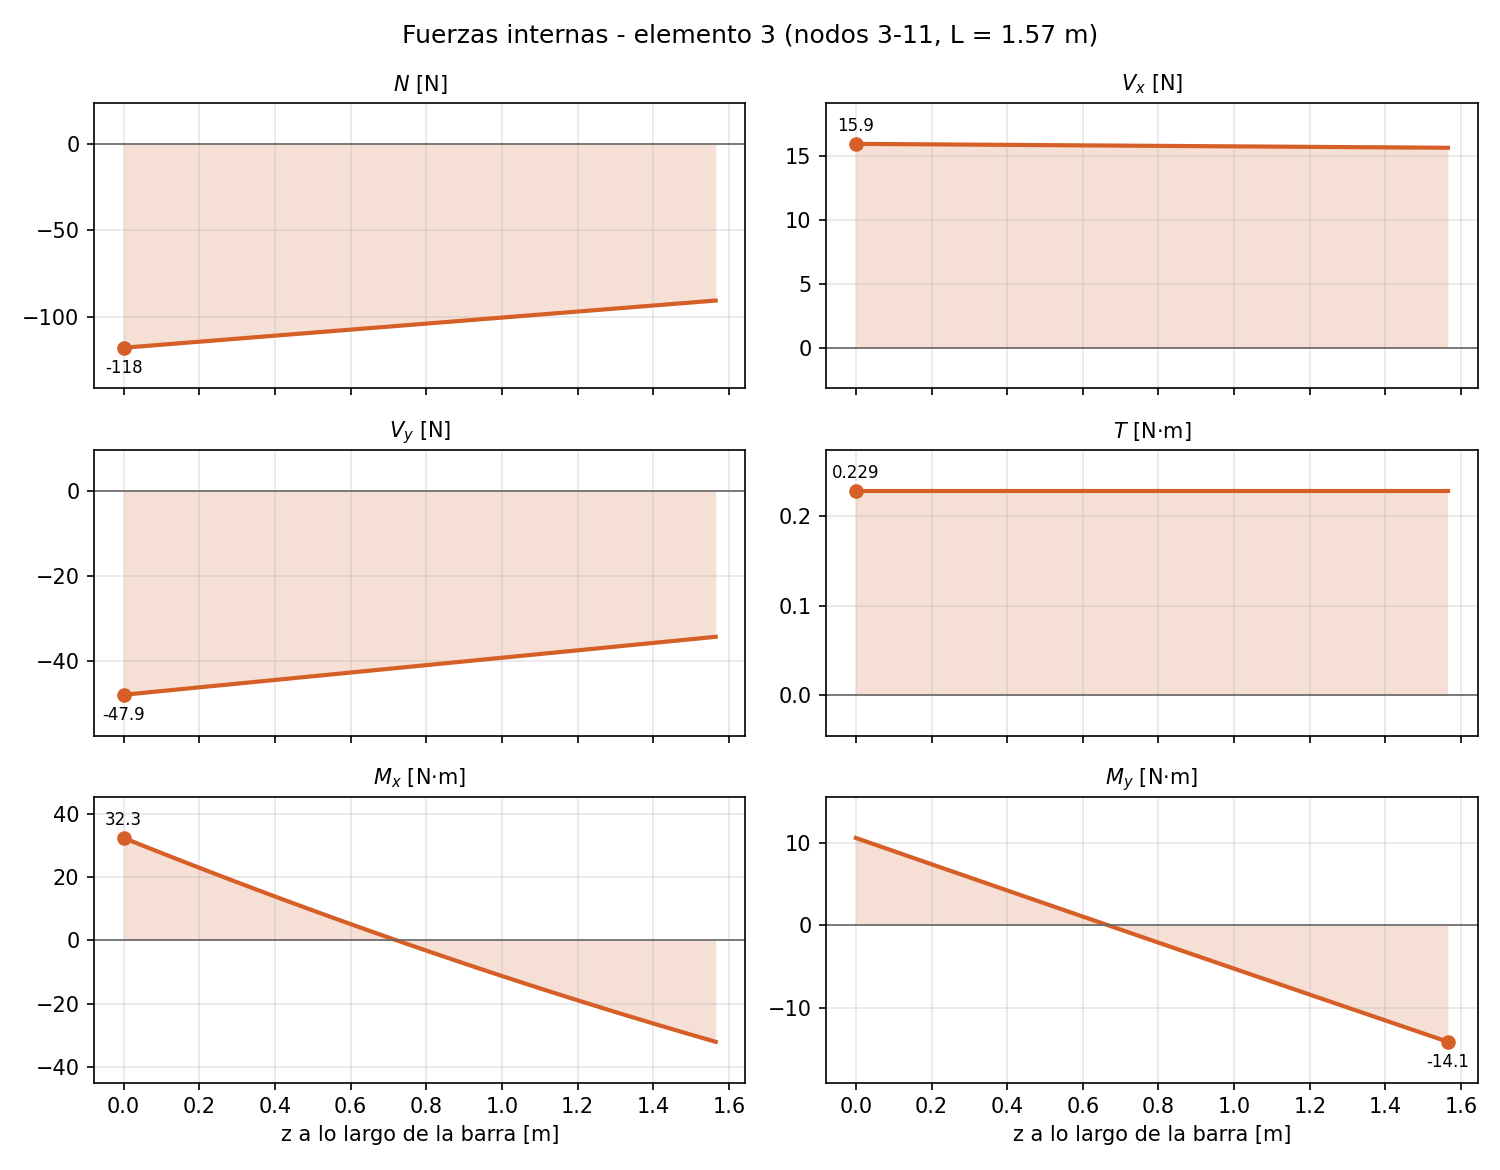
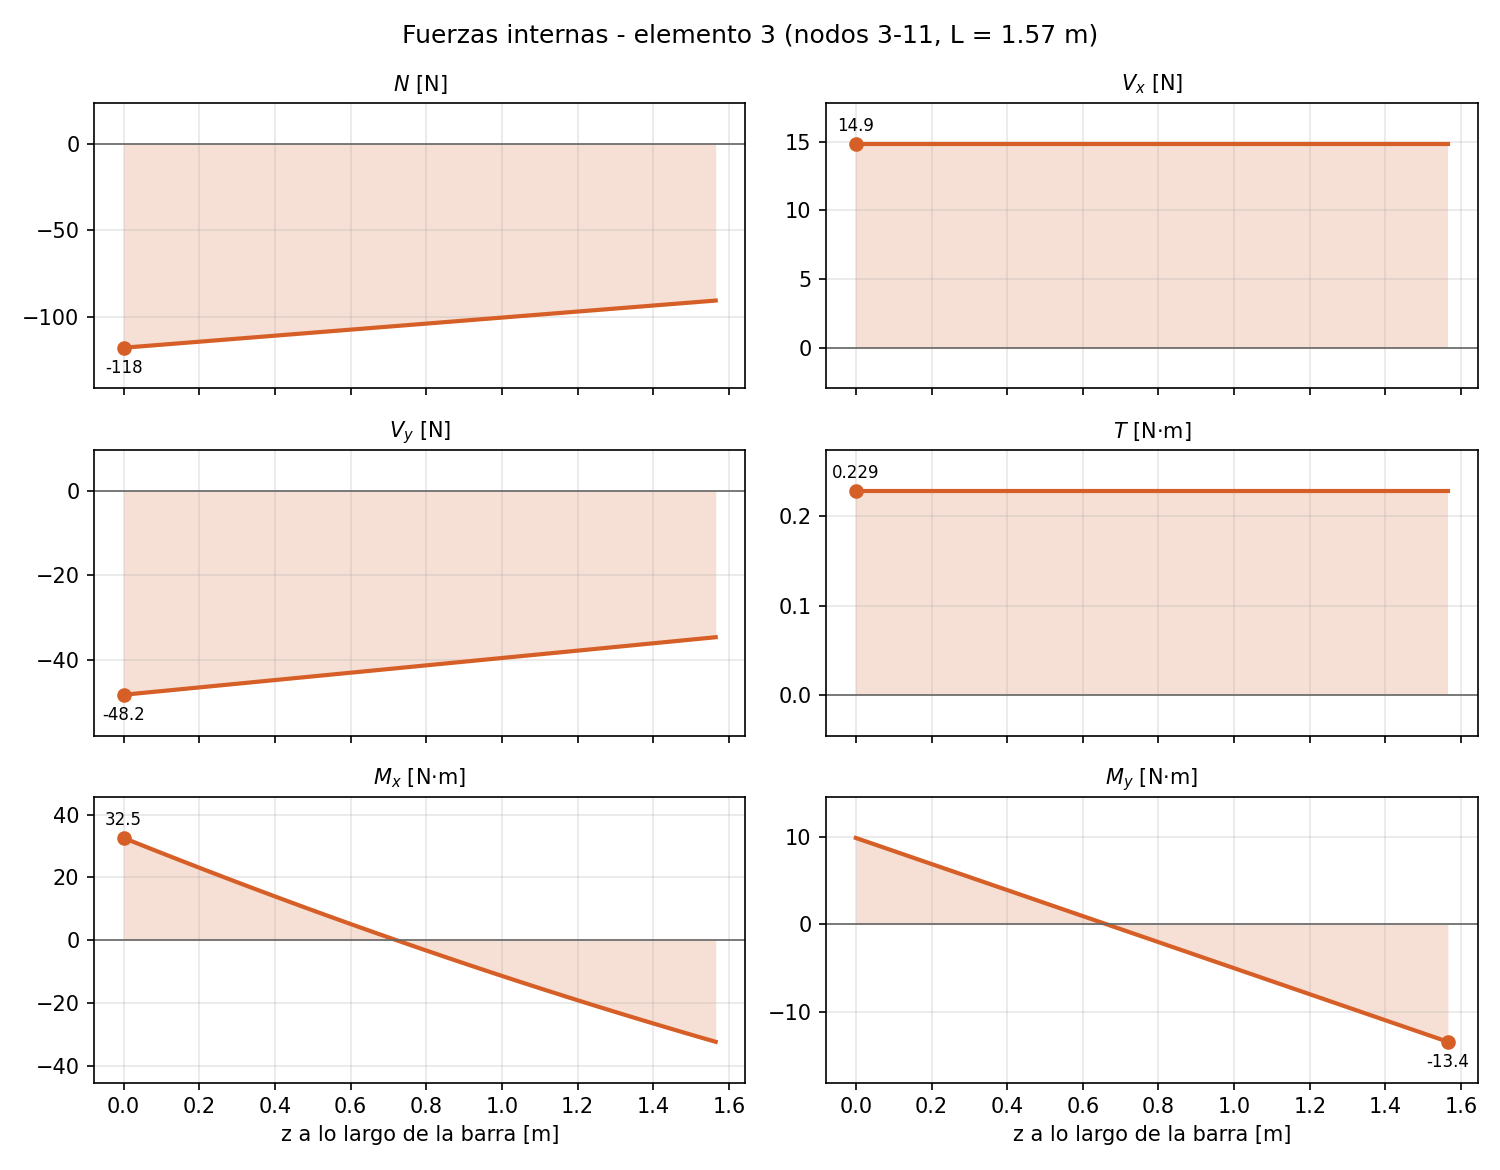
T2 P2: orientar ejes locales con vec_ref = Z para que el peso quede en un plano
- vec_ref = Z global (Y en barras verticales): x_L horizontal, el peso propio
  solo carga V_y, M_x y N; V_x queda constante en las barras inclinadas
- Barras simetricas dan tensiones identicas; sigma_VM max = 29.6 MPa (FS = 10.2)
- Actualiza tablas, barrido de atiesadores y figuras

diff --git a/T2/P2.tex b/T2/P2.tex
@@ -140,7 +140,7 @@ traseras del techo (nodos 4 y 7) solo se apoyaban en los tramos de 1 m que
 van a la punta de las columnas inclinadas. El larguero trasero de 4 m
 quedaba colgando de dos voladizos y su centro bajaba \textbf{15.08 mm}, lo
 que \emph{no cumple} $\delta_{max}=10$ mm. Las tensiones sí cumplían
-($\sigma_{VM}=35.8$ MPa).
+($\sigma_{VM}=35.6$ MPa).
 
 Para corregirlo sin cambiar la idea del diseño ni tapar la vista, se agregó
 un atiesador en cada cara lateral. Este apoya la esquina trasera del techo
@@ -153,12 +153,12 @@ que el atiesador se une con la columna:
 \hline
 Diseño & Largo atiesador [m] & $\delta_{max}$ [mm] & $\sigma_{VM,max}$ [MPa] & FS\\
 \hline
-Sin atiesadores & -- & 15.08 & 35.8 & 8.4\\
-$z_{at}=1.6$ m & 0.89 & 8.67 & 33.0 & 9.1\\
-$z_{at}=1.5$ m & 0.90 & 7.98 & 31.5 & 9.5\\
-$\mathbf{z_{at}=1.4}$ \textbf{m} & \textbf{0.92} & \textbf{7.36} & \textbf{29.8} & \textbf{10.1}\\
-$z_{at}=1.2$ m & 1.00 & 6.33 & 26.7 & 11.3\\
-$z_{at}=1.0$ m & 1.12 & 5.59 & 24.9 & 12.0\\
+Sin atiesadores & -- & 15.08 & 35.6 & 8.4\\
+$z_{at}=1.6$ m & 0.89 & 8.67 & 32.7 & 9.2\\
+$z_{at}=1.5$ m & 0.90 & 7.98 & 31.3 & 9.6\\
+$\mathbf{z_{at}=1.4}$ \textbf{m} & \textbf{0.92} & \textbf{7.36} & \textbf{29.6} & \textbf{10.2}\\
+$z_{at}=1.2$ m & 1.00 & 6.33 & 26.4 & 11.4\\
+$z_{at}=1.0$ m & 1.12 & 5.59 & 24.6 & 12.2\\
 \hline
 \end{tabular}
 \end{center}
@@ -190,23 +190,24 @@ $\sqrt{M_x^2+M_y^2}$. Máximos a lo largo de cada barra:
 \hline
 Barra & Nodos & Tipo & $\sigma_{VM}$ [MPa] & Barra & Nodos & Tipo & $\sigma_{VM}$ [MPa]\\
 \hline
-0 & 0--10 & col. inclinada & 29.27 & 7  & 6--9  & techo      & 6.44\\
+0 & 0--10 & col. inclinada & \textbf{29.55} & 7  & 6--9  & techo      & 6.50\\
 1 & 1--5  & col. vertical  & 18.61 & 8  & 9--7  & techo      & 6.33\\
 2 & 2--6  & col. vertical  & 18.61 & 9  & 7--4  & larguero   & 13.29\\
-3 & 3--11 & col. inclinada & \textbf{29.81} & 10 & 10--8 & col. inclinada & 15.75\\
-4 & 4--8  & techo          & 6.33  & 11 & 11--9 & col. inclinada & 16.08\\
-5 & 8--5  & techo          & 6.56  & 12 & 10--4 & atiesador  & 12.75\\
-6 & 5--6  & larguero       & 13.75 & 13 & 11--7 & atiesador  & 12.59\\
+3 & 3--11 & col. inclinada & \textbf{29.55} & 10 & 10--8 & col. inclinada & 15.92\\
+4 & 4--8  & techo          & 6.33  & 11 & 11--9 & col. inclinada & 15.92\\
+5 & 8--5  & techo          & 6.50  & 12 & 10--4 & atiesador  & 12.67\\
+6 & 5--6  & larguero       & 13.75 & 13 & 11--7 & atiesador  & 12.67\\
 \hline
 \end{tabular}
 \end{center}
 La barra más solicitada es el tramo inferior de la columna inclinada, en su
 empotramiento:
-$$\sigma_{VM,max}=29.8\ \text{MPa}<S_y=300\ \text{MPa}\qquad\checkmark,
-\qquad FS=\frac{S_y}{\sigma_{VM,max}}=10.1$$
-La pequeña diferencia entre las barras 0 y 3 (29.27 y 29.81 MPa) se debe al
-criterio conservador $|M_x|+|M_y|$, que depende de cómo quedan orientados
-los ejes locales de cada barra. La tensión axial es despreciable (máx.
+$$\sigma_{VM,max}=29.6\ \text{MPa}<S_y=300\ \text{MPa}\qquad\checkmark,
+\qquad FS=\frac{S_y}{\sigma_{VM,max}}=10.2$$
+Las barras simétricas respecto del plano $y=2$ m dan las mismas tensiones.
+Los ejes locales se orientaron con \texttt{vec\_ref} $=\hat Z$ (o $\hat Y$ en
+las barras verticales), de modo que $x_L$ es horizontal y el peso propio
+solo carga el plano local $y_L$--$z_L$ ($V_y$, $M_x$ y $N$). La tensión axial es despreciable (máx.
 0.46 MPa): la estructura trabaja en flexión.
 
 \textbf{Pandeo.} Como verificación adicional, la columna más comprimida
@@ -219,8 +220,8 @@ así que el pandeo no controla el diseño.
 \includegraphics[width=\linewidth]{T2/figuras_P2/tensiones_3d.png}
 \captionof{figure}{Tensiones sobre la estructura: normal por axial, normal
 máxima, corte por torsión y von Mises. El color se asigna con el promedio
-de cada segmento, por eso el máximo del gráfico (29.2 MPa) es algo menor que
-el valor puntual en el empotramiento (29.8 MPa).}
+de cada segmento, por eso el máximo del gráfico (28.9 MPa) es algo menor que
+el valor puntual en el empotramiento (29.6 MPa).}
 \label{fig:t2-p2-tensiones}
 \end{center}
 
@@ -250,8 +251,8 @@ parabólica.}
 \begin{desarrollo}{Conclusión}
 El diseño propuesto cubre $2\times4$ m a 2 m de altura con 22.3 m de tubo
 Ø30$\times$3 (44 kg). Cumple ambas restricciones:
-$\delta_{max}=7.36$ mm $<10$ mm y $\sigma_{VM,max}=29.8$ MPa $<300$ MPa
-(FS $=10.1$). La restricción que controla es la deflexión y no la
+$\delta_{max}=7.36$ mm $<10$ mm y $\sigma_{VM,max}=29.6$ MPa $<300$ MPa
+(FS $=10.2$). La restricción que controla es la deflexión y no la
 resistencia, por lo que para este tubo el diseño se rige por rigidez. Los
 atiesadores laterales de 0.92 m fueron la clave: redujeron la flecha
 máxima en un 51\,\% (de 15.1 a 7.4 mm) agregando solo 1.8 m de tubo, y sin

diff --git a/T2/Codigo/Problema_2.py b/T2/Codigo/Problema_2.py
@@ -76,8 +76,11 @@ conectividad = np.array([
 
 ], dtype=int)
 
-# da lo mismo la orientacion todos son de seccion constante
-vec_ref = np.array([[0.0, 1.0, 100.0]] * len(conectividad))
+# vec_ref = Z global: x_L = Z x z_L queda horizontal y el peso propio cae solo en el
+# plano local y_L-z_L (V_y, M_x, N). En barras verticales Z es paralelo -> se usa Y.
+d = (xyz[conectividad[:, 1]] - xyz[conectividad[:, 0]]).magnitude
+vertical = np.hypot(d[:, 0], d[:, 1]) < 1e-9
+vec_ref = np.where(vertical[:, None], [0.0, 1.0, 0.0], [0.0, 0.0, 1.0])
 
 apoyos = np.array([
     [0, 1, 1, 1, 1, 1, 1],   # nodo 0: empotrado (6 restricciones)
